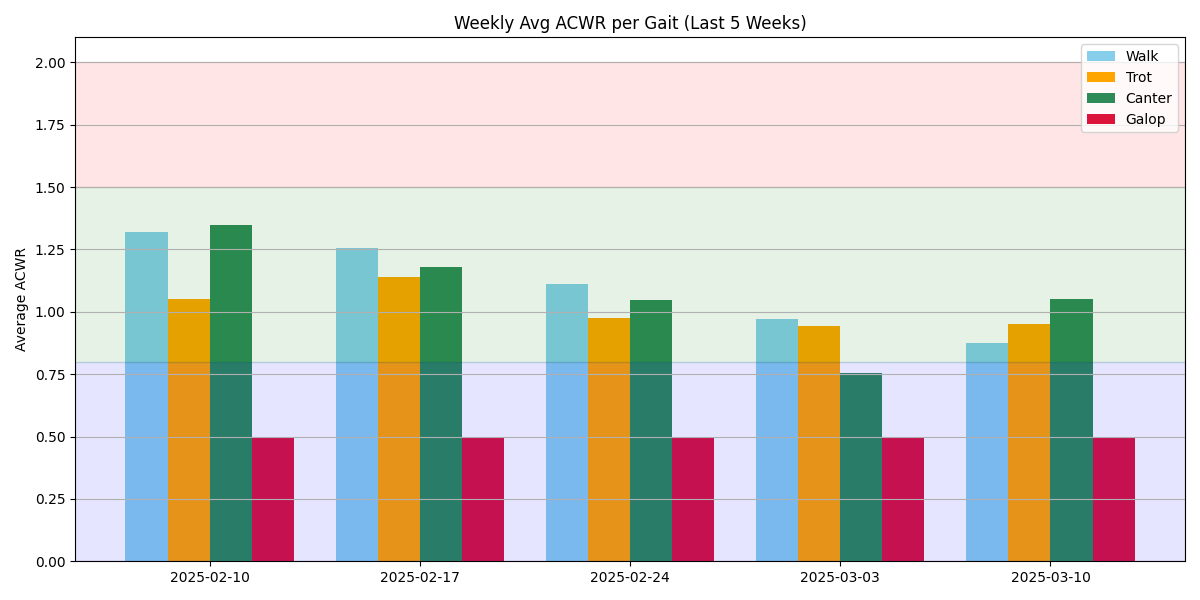
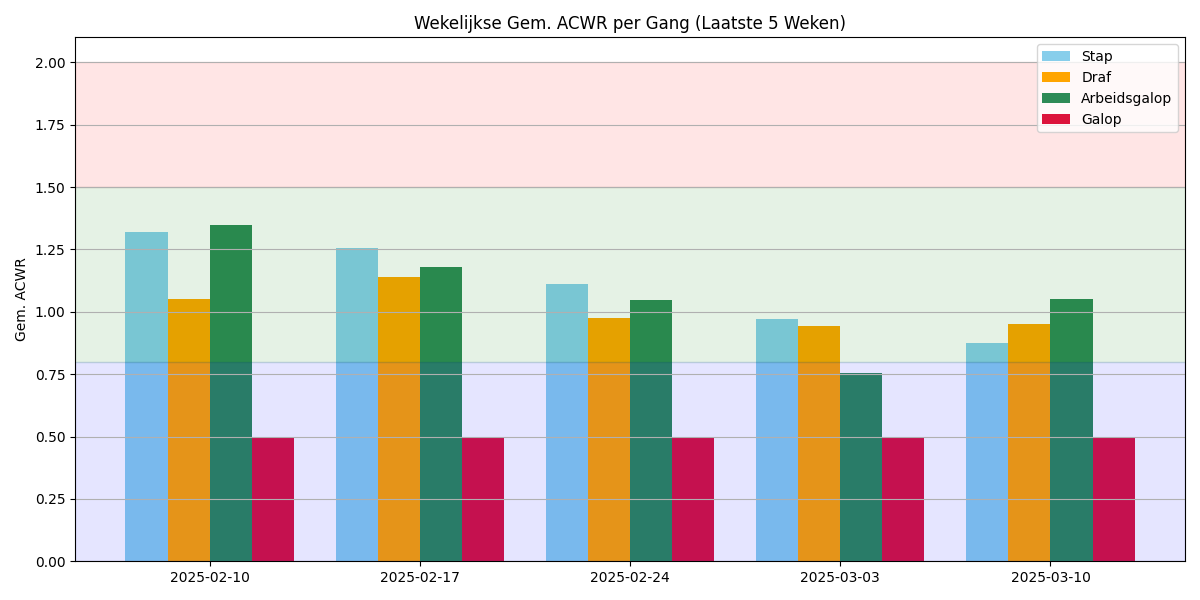
Added graphs in dutch + horse names

Changed region(s): [[0.8633, 0.06, 0.9867, 0.21], [0.3392, 0.03, 0.7092, 0.06], [0.0, 0.42, 0.0308, 0.57]]

diff --git a/Equine_Integration_Rubies/web app/templates/_results.html b/Equine_Integration_Rubies/web app/templates/_results.html
@@ -1,13 +1,17 @@
-
-
 {% if error_message %}
     <p style="color: #FF5C5C; font-weight: bold; text-align: center;">{{ error_message }}</p>
 {% endif %}
 
-
-{% if selected_horse_id %}
-    <h2 class="horse-heading">Results for Horse ID: {{ selected_horse_id }}</h2>
+{% if selected_horse_name %}
+    <h2 class="horse-heading">
+        {% if is_dutch %}
+            Resultaten voor Paard: {{ selected_horse_name }}
+        {% else %}
+            Results for Horse: {{ selected_horse_name }}
+        {% endif %}
+    </h2>
 {% endif %}
+
 
 {% if feedback and personalized_feedback %}
 <div class="feedback-grid">
@@ -15,15 +19,12 @@
         <label>Feedback:</label>
         <pre id="feedback" class="output-box">{{ feedback | safe }}</pre>
     </div>
-
     <div id="personalized-feedback-section" class="card">
         <label>Personalized Feedback:</label>
         <pre id="personalized-feedback" class="output-box">{{ personalized_feedback | safe }}</pre>
     </div>
 </div>
 {% endif %}
-
-
 
 {% if feedback or personalized_feedback %}
     <div style="text-align: center;">
@@ -37,36 +38,83 @@
     </div>
 {% endif %}
 
-
 <div id="graph-section" style="display: block;">
     {% if chart_path %}
         <div class="chart-grid">
+
             <div class="chart-block">
-                <h3>Recent 7 Days - Load per Gait</h3>
+                <h3>
+                    {% if is_dutch %}
+                        Recente 7 Dagen - Belasting per Gang
+                    {% else %}
+                        Recent 7 Days - Load per Gait
+                    {% endif %}
+                </h3>
                 <img src="{{ url_for('static', filename='charts/bars_load_' + selected_horse_id + '.png') }}"
                      alt="Recent Load Bar Chart" class="training-chart">
-                <p class="chart-explanation">This chart displays daily training load per gait over the past 7 days.</p>
+                <p class="chart-explanation">
+                    {% if is_dutch %}
+                        Deze grafiek toont de dagelijkse trainingsbelasting per gang over de afgelopen 7 dagen.
+                    {% else %}
+                        This chart displays daily training load per gait over the past 7 days.
+                    {% endif %}
+                </p>
             </div>
+
             <div class="chart-block">
-                <h3>Recent 7 Days - ACWR per Gait</h3>
+                <h3>
+                    {% if is_dutch %}
+                        Recente 7 Dagen - ACWR per Gang
+                    {% else %}
+                        Recent 7 Days - ACWR per Gait
+                    {% endif %}
+                </h3>
                 <img src="{{ url_for('static', filename='charts/bars_acwr_' + selected_horse_id + '.png') }}"
                      alt="Recent ACWR Bar Chart" class="training-chart">
-                <p class="chart-explanation">This chart shows the Acute:Chronic Workload Ratio for each gait.</p>
+                <p class="chart-explanation">
+                    {% if is_dutch %}
+                        Deze grafiek toont de Acute:Chronische Werkbelasting Ratio (ACWR) voor elke gang.
+                    {% else %}
+                        This chart shows the Acute:Chronic Workload Ratio for each gait.
+                    {% endif %}
+                </p>
             </div>
+
             <div class="chart-block">
-                <h3>Weekly Avg Load per Gait (Last 5 Weeks)</h3>
+                <h3>
+                    {% if is_dutch %}
+                        Gemiddelde Wekelijkse Belasting per Gang (Laatste 5 Weken)
+                    {% else %}
+                        Weekly Avg Load per Gait (Last 5 Weeks)
+                    {% endif %}
+                </h3>
                 <img src="{{ url_for('static', filename='charts/bars_weekly_load_' + selected_horse_id + '.png') }}"
                     alt="Weekly Load Bar Chart" class="training-chart">
                 <p class="chart-explanation">
-                    This chart displays the average training load per gait across the last 5 weeks. Use it to identify long-term trends.
+                    {% if is_dutch %}
+                        Deze grafiek toont de gemiddelde wekelijkse trainingsbelasting per gang gedurende de laatste 5 weken.
+                    {% else %}
+                        This chart displays the average training load per gait across the last 5 weeks. Use it to identify long-term trends.
+                    {% endif %}
                 </p>
             </div>
+
             <div class="chart-block">
-                <h3>Weekly Avg ACWR per Gait (Last 5 Weeks)</h3>
+                <h3>
+                    {% if is_dutch %}
+                        Gemiddelde Wekelijkse ACWR per Gang (Laatste 5 Weken)
+                    {% else %}
+                        Weekly Avg ACWR per Gait (Last 5 Weeks)
+                    {% endif %}
+                </h3>
                 <img src="{{ url_for('static', filename='charts/bars_weekly_acwr_' + selected_horse_id + '.png') }}"
                     alt="Weekly ACWR Bar Chart" class="training-chart">
                 <p class="chart-explanation">
-                    This chart shows the average Acute:Chronic Workload Ratio for each gait over the past 5 weeks. Helps assess weekly training balance.
+                    {% if is_dutch %}
+                        Deze grafiek toont de gemiddelde ACWR per gang in de afgelopen 5 weken. Dit helpt bij het beoordelen van de trainingsbalans.
+                    {% else %}
+                        This chart shows the average Acute:Chronic Workload Ratio for each gait over the past 5 weeks. Helps assess weekly training balance.
+                    {% endif %}
                 </p>
             </div>
         </div>

diff --git a/Equine_Integration_Rubies/web app/templates/index.html b/Equine_Integration_Rubies/web app/templates/index.html
@@ -21,12 +21,14 @@
                 {% endif %}
 
                 <form id="horse-form" method="POST" action="/run_model" class="card narrow-card">
-                    <label for="horse-id">Select Horse ID:</label>
+                    <label for="horse-id">Select Horse Name:</label>
                     <select name="horse_id" id="horse-id">
-                        <option value="" disabled selected>-- Select Horse ID --</option>
-                        {% for hid in horse_ids %}
-                            <option value="{{ hid }}">{{ hid }}</option>
+                        <option value="" disabled selected>-- Select Horse Name --</option>
+                       {% for hid in horse_ids %}
+                            {% set name = HORSE_NAME_MAP.get(hid, hid) %}
+                            <option value="{{ hid }}">{{ name }}</option>
                         {% endfor %}
+
                     </select>
                     <button type="submit">Receive feedback</button>
                 </form>

diff --git a/Equine_Integration_Rubies/web app/utils/summary_plot_bars.py b/Equine_Integration_Rubies/web app/utils/summary_plot_bars.py
@@ -4,15 +4,25 @@ import matplotlib.pyplot as plt
 import pandas as pd
 import os
 
-def plot_grouped_bars(data, categories, title, ylabel, save_path, zone_shading=None):
-    x = range(len(data))  # Number of time periods
+# Gait name translation (optional)
+gait_translation_nl = {
+    "walk": "Stap",
+    "trot": "Draf",
+    "canter": "Arbeidsgalop",
+    "galop": "Galop"
+}
+
+def plot_grouped_bars(data, categories, title, ylabel, save_path, zone_shading=None, is_dutch=False):
+    x = range(len(data))
     bar_width = 0.2
 
     fig, ax = plt.subplots(figsize=(12, 6))
     colors = ['skyblue', 'orange', 'seagreen', 'crimson']
+
     for i, cat in enumerate(categories):
+        label = gait_translation_nl[cat] if is_dutch else cat.capitalize()
         values = [row[cat] for row in data]
-        ax.bar([p + i * bar_width for p in x], values, width=bar_width, label=cat.capitalize(), color=colors[i % len(colors)])
+        ax.bar([p + i * bar_width for p in x], values, width=bar_width, label=label, color=colors[i % len(colors)])
 
     ax.set_xticks([p + bar_width * (len(categories)-1)/2 for p in x])
     ax.set_xticklabels([row['label'] for row in data])
@@ -21,7 +31,6 @@ def plot_grouped_bars(data, categories, title, ylabel, save_path, zone_shading=N
     ax.legend()
     ax.grid(True, axis='y')
 
-    # Optional shading for zones (e.g. ACWR thresholds)
     if zone_shading:
         for (low, high, color, label) in zone_shading:
             ax.axhspan(low, high, color=color, alpha=0.1, label=label)
@@ -31,13 +40,28 @@ def plot_grouped_bars(data, categories, title, ylabel, save_path, zone_shading=N
     plt.savefig(save_path)
     plt.close()
 
+
 def plot_training_summary_bars(df_horse, output_dir, horse_id, is_dutch=False):
     gaits = ["walk", "trot", "canter", "galop"]
     df_horse = df_horse.sort_values("Date")
     df_recent = df_horse.tail(7)
     recent_labels = df_recent["Date"].dt.strftime("%Y-%m-%d").tolist()
 
-    # 1. Recent 7 Days - Load per Gait
+    # Chart titles and labels
+    title_load_7 = "Recente 7 Dagen - Trainingsbelasting per Gang" if is_dutch else "Recent 7 Days - Load per Gait"
+    title_acwr_7 = "Recente 7 Dagen - ACWR per Gang" if is_dutch else "Recent 7 Days - ACWR per Gait"
+    title_weekly_load = "Wekelijkse Gem. Trainingsbelasting (Laatste 5 Weken)" if is_dutch else "Weekly Avg Load per Gait (Last 5 Weeks)"
+    title_weekly_acwr = "Wekelijkse Gem. ACWR per Gang (Laatste 5 Weken)" if is_dutch else "Weekly Avg ACWR per Gait (Last 5 Weeks)"
+    label_load = "Trainingsbelasting" if is_dutch else "Load"
+    label_acwr = "Gem. ACWR" if is_dutch else "Average ACWR"
+
+    acwr_zones = [
+        (0, 0.8, 'blue', "Ondergetraind" if is_dutch else "Undertrained"),
+        (0.8, 1.5, 'green', "Optimaal" if is_dutch else "Optimal"),
+        (1.5, 2.0, 'red', "Overtraind" if is_dutch else "Overtrained"),
+    ]
+
+    # 1. Load - 7 days
     load_data = []
     for idx, row in df_recent.iterrows():
         entry = {"label": row["Date"].strftime("%Y-%m-%d")}
@@ -47,12 +71,13 @@ def plot_training_summary_bars(df_horse, output_dir, horse_id, is_dutch=False):
 
     plot_grouped_bars(
         load_data, gaits,
-        title="Recent 7 Days - Load per Gait",
-        ylabel="Load",
-        save_path=os.path.join(output_dir, f"bars_load_{horse_id}.png")
+        title=title_load_7,
+        ylabel=label_load,
+        save_path=os.path.join(output_dir, f"bars_load_{horse_id}.png"),
+        is_dutch=is_dutch
     )
 
-    # 2. Recent 7 Days - ACWR per Gait
+    # 2. ACWR - 7 days
     acwr_data = []
     for idx, row in df_recent.iterrows():
         entry = {"label": row["Date"].strftime("%Y-%m-%d")}
@@ -62,17 +87,19 @@ def plot_training_summary_bars(df_horse, output_dir, horse_id, is_dutch=False):
 
     plot_grouped_bars(
         acwr_data, gaits,
-        title="Recent 7 Days - ACWR per Gait",
+        title=title_acwr_7,
         ylabel="ACWR",
         save_path=os.path.join(output_dir, f"bars_acwr_{horse_id}.png"),
-        zone_shading=[(0, 0.8, 'blue', 'Undertrained'), (0.8, 1.5, 'green', 'Optimal'), (1.5, 2.0, 'red', 'Overtrained')]
+        zone_shading=acwr_zones,
+        is_dutch=is_dutch
     )
 
-    # 3. Weekly Average Load
+    # Weekly stats
     df_horse["Week"] = df_horse["Date"].dt.to_period("W").apply(lambda r: r.start_time)
     last_weeks = df_horse["Week"].dropna().unique()[-5:]
     df_weekly = df_horse[df_horse["Week"].isin(last_weeks)]
 
+    # 3. Weekly Avg Load
     weekly_load_data = []
     for week in last_weeks:
         week_str = pd.Timestamp(week).strftime('%Y-%m-%d')
@@ -84,12 +111,13 @@ def plot_training_summary_bars(df_horse, output_dir, horse_id, is_dutch=False):
 
     plot_grouped_bars(
         weekly_load_data, gaits,
-        title="Weekly Avg Load per Gait (Last 5 Weeks)",
-        ylabel="Average Load",
-        save_path=os.path.join(output_dir, f"bars_weekly_load_{horse_id}.png")
+        title=title_weekly_load,
+        ylabel=label_load,
+        save_path=os.path.join(output_dir, f"bars_weekly_load_{horse_id}.png"),
+        is_dutch=is_dutch
     )
 
-    # 4. Weekly Average ACWR
+    # 4. Weekly Avg ACWR
     weekly_acwr_data = []
     for week in last_weeks:
         week_str = pd.Timestamp(week).strftime('%Y-%m-%d')
@@ -101,8 +129,9 @@ def plot_training_summary_bars(df_horse, output_dir, horse_id, is_dutch=False):
 
     plot_grouped_bars(
         weekly_acwr_data, gaits,
-        title="Weekly Avg ACWR per Gait (Last 5 Weeks)",
-        ylabel="Average ACWR",
+        title=title_weekly_acwr,
+        ylabel=label_acwr,
         save_path=os.path.join(output_dir, f"bars_weekly_acwr_{horse_id}.png"),
-        zone_shading=[(0, 0.8, 'blue', 'Undertrained'), (0.8, 1.5, 'green', 'Optimal'), (1.5, 2.0, 'red', 'Overtrained')]
+        zone_shading=acwr_zones,
+        is_dutch=is_dutch
     )

diff --git a/Equine_Integration_Rubies/web app/app.py b/Equine_Integration_Rubies/web app/app.py
@@ -8,6 +8,16 @@ from utils.summary_plot_bars import plot_training_summary_bars
 from utils.summary_plot_bars import plot_training_summary_bars
 import os
 
+
+# Mapping of Horse ID to display name
+HORSE_NAME_MAP = {
+    257: "257 – Dem",
+    483: "483 – Kizzy",
+    311: "311 – Timmy",
+    601: "601 – Mumbles",
+    602: "602 – Beaufort"
+}
+
 app = Flask(__name__)
 
 @app.route('/')
@@ -18,7 +28,8 @@ def home():
                            selected_horse_id=None,
                            summary_text=None,
                            feedback=None,
-                           chart_path=None)
+                           chart_path=None,
+                           HORSE_NAME_MAP=HORSE_NAME_MAP)
 
 
 
@@ -29,25 +40,32 @@ def run_model():
         horse_ids = get_all_horse_ids()
         error_message = "Please select a horse ID before submitting."
         return render_template("_results.html",
-                            horse_ids=horse_ids,
-                            selected_horse_id=None,
-                            summary_text=None,
-                            feedback=None,
-                            personalized_feedback=None,
-                            chart_path=None,
-                            error_message=error_message)
+                       horse_ids=horse_ids,
+                       selected_horse_id=None,
+                       summary_text=None,
+                       feedback=None,
+                       personalized_feedback=None,
+                       chart_path=None,
+                       error_message=error_message,
+                       is_dutch=False,
+                       HORSE_NAME_MAP=HORSE_NAME_MAP)  # Default to English
+
 
     horse_ids = get_all_horse_ids()
     summary_text = get_summary_for_horse(horse_id)
 
     if summary_text.startswith("No data available") or "Summary generation failed" in summary_text:
         return render_template("_results.html",
-                               horse_ids=horse_ids,
-                               summary_text=summary_text,
-                               feedback=None,
-                               personalized_feedback=None,
-                               chart_path=None,
-                               selected_horse_id=horse_id)
+                       horse_ids=horse_ids,
+                       summary_text=summary_text,
+                       feedback=None,
+                       personalized_feedback=None,
+                       chart_path=None,
+                       selected_horse_id=horse_id,
+                       selected_horse_name=HORSE_NAME_MAP.get(int(horse_id), horse_id),
+                       is_dutch=int(horse_id) in [257, 483],
+                       HORSE_NAME_MAP=HORSE_NAME_MAP)
+
 
     feedback = generate_local_feedback(horse_id, summary_text)
     personalized_feedback = generate_personalized_feedback(horse_id, summary_text)
@@ -63,12 +81,16 @@ def run_model():
     plot_training_summary_bars(df_horse, output_dir="static/charts", horse_id=horse_id, is_dutch=is_dutch)
 
     return render_template("_results.html",
-                           horse_ids=horse_ids,
-                           summary_text=summary_text,
-                           feedback=feedback,
-                           personalized_feedback=personalized_feedback,
-                           chart_path=f"charts/{chart_filename}",
-                           selected_horse_id=horse_id)
+                       horse_ids=horse_ids,
+                       summary_text=summary_text,
+                       feedback=feedback,
+                       personalized_feedback=personalized_feedback,
+                       chart_path=f"charts/{chart_filename}",
+                       selected_horse_id=horse_id,
+                       selected_horse_name=HORSE_NAME_MAP.get(int(horse_id), horse_id),
+                       is_dutch=is_dutch,
+                       HORSE_NAME_MAP=HORSE_NAME_MAP)  # <-- This was missing
+
 
 if __name__ == '__main__':
     app.run(debug=True)
